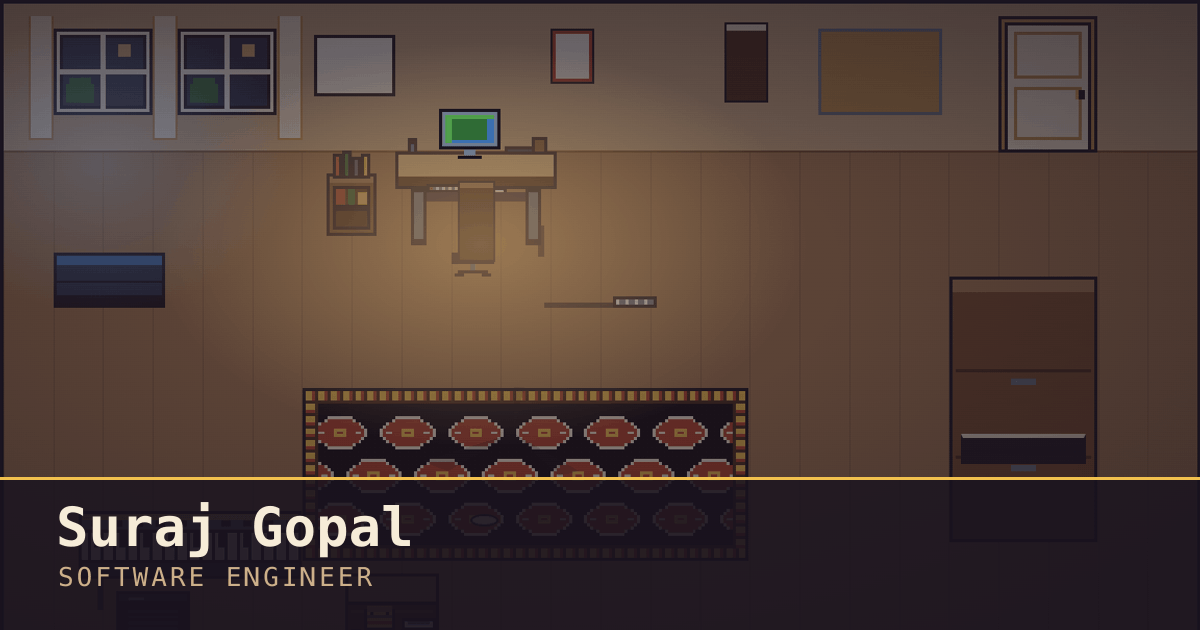
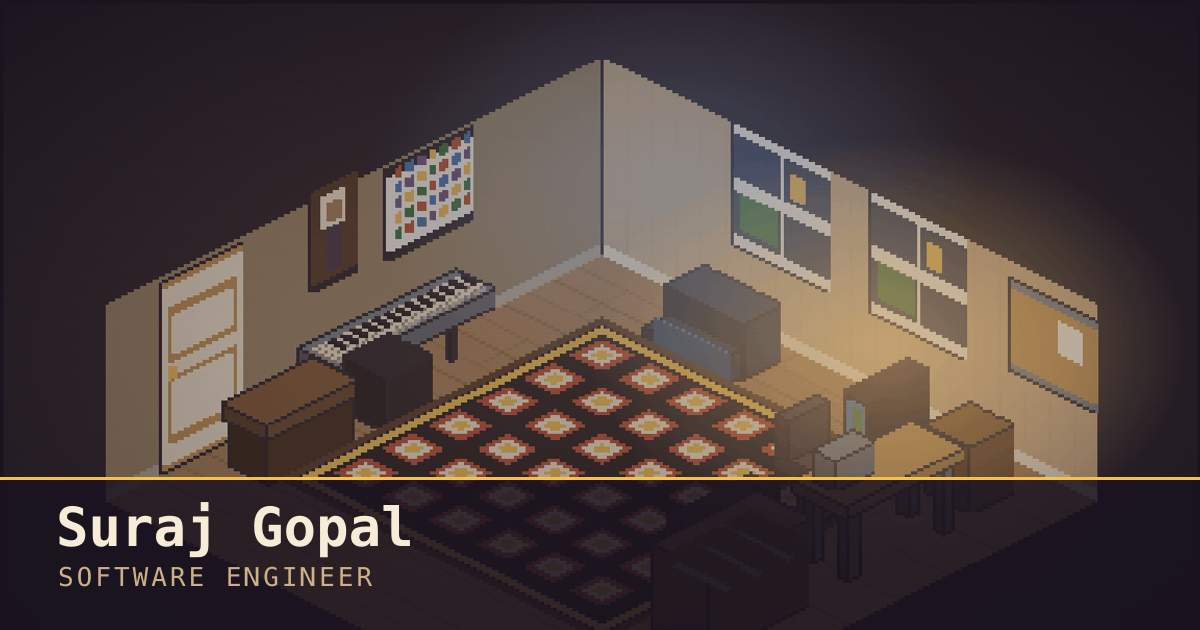
Finish phase two: new social card, and a character spec that fits
The social card is regenerated from the isometric room — it had been
advertising a room that no longer exists.

docs/characters.md was actively wrong after the camera change, so it's
rewritten around the new projection. Scale is 8 pixels to the foot, from
the 64px wall: a person is 44-48px, Peanut 18px at the shoulder, Kibou
11px, with footprints in tiles.

The useful part is the frame count. Isometric has four facings, but
down-left is down-right mirrored and up-left is up-right mirrored, so
only two are drawn and the renderer flips the others with scaleX(-1),
which is lossless on a whole-pixel sprite. That's ten frames per
character rather than twenty.

The shot list changed with it: two three-quarter views matching the
room's camera, 45 degrees in front and above and 45 behind and above —
not the front/back/side the top-down camera wanted.

README updated for the new architecture and the six commands that didn't
exist when it was written.

diff --git a/docs/characters.md b/docs/characters.md
@@ -1,7 +1,11 @@
 # Character reference
 
 Three characters wander through the office: **Kibou** (cat), **Peanut** (dog)
-and **Caitlin**. Suraj is the fourth, at the desk.
+and **Caitlin**. Suraj is the fourth, at the desk, and doesn't move.
+
+Positions are tiles on the isometric floor — the same coordinates the
+furniture uses. See `lib/characters.ts` for each visitor's spot and beat,
+and `npm test` for the contract the state machine has to satisfy.
 
 Colors below were sampled off the reference photos in `photos/raw/` and then
 snapped to the nearest palette entry, so what you draw in Aseprite matches what
@@ -9,18 +13,51 @@ the room is already made of. Palette: `scripts/palette.json`.
 
 ## Scale
 
-The scene is 384×216 art px — 24×13.5 tiles at 16px. Everything should sit on
-that grid:
+The room is isometric now (see `docs/art-direction.md` and
+`components/scene/iso.ts`), which changes every number below.
 
-| | height | length |
+Height is measured in pixels, and the wall is 64px for an 8-foot room — so
+**8 pixels to the foot**. A floor tile is 32x16px and about 1.2 feet square.
+
+| | height | footprint |
 |---|---|---|
-| Standing person | 56–64 px (≈4 tiles) | — |
-| Peanut | 28 px at the shoulder | ~44 px nose to rump, + 20 px tail |
-| Kibou | 22 px at the shoulder | ~34 px, + a tail nearly as long again |
+| A person | 44–48 px | 0.5 x 0.5 tiles |
+| Peanut | 18 px at the shoulder | 0.5 x 0.8 tiles |
+| Kibou | 11 px at the shoulder | 0.4 x 0.7 tiles |
 
-At these sizes, detail is not what makes someone recognizable — silhouette and
-two or three color blocks are. Draw the silhouette first, in one flat color,
-and only shade it once it already reads from across the room.
+Check them against the furniture: the desk is 26px (3¼ ft), the chair 32px,
+the credenza 28px. A person at 46px stands head and shoulders above the desk,
+which is what you want.
+
+## Frames: draw two directions, mirror for the other two
+
+In isometric a character faces four ways, named for where they travel on
+screen: `down-right`, `down-left`, `up-right`, `up-left`. But **down-left is
+down-right mirrored, and up-left is up-right mirrored** — so you only draw
+two and flip them.
+
+| view | drawn | used for |
+|---|---|---|
+| down-right | yes | walking toward the camera |
+| up-right | yes | walking away, toward the desk or the windows |
+| down-left | mirror of down-right | — |
+| up-left | mirror of up-right | — |
+
+Per character:
+
+- **4-frame walk cycle** in each of the two drawn directions — 8 frames.
+- **2-frame idle** in down-right, for the `settled` beat — breathing, a tail
+  flick, an ear twitch.
+
+**Ten frames per character, not the twenty the four directions suggest.**
+Export one horizontal strip per direction into
+`public/art/characters/<name>-<down|up>-right.png`, frames evenly spaced,
+transparent background. The renderer flips with `transform: scaleX(-1)`,
+which is lossless on a whole-pixel sprite.
+
+Mirroring does mean asymmetric markings swap sides — Kibou's face blaze, a
+collar, a logo on a shirt. At this size nobody notices, and it halves the
+work.
 
 ## Kibou
 
@@ -83,23 +120,12 @@ Long dark-brown hair falling past the shoulders with a soft wave, parted off
 one side. Lighter skin: ramp `#7a4e2e` → `#a67c55` → `#cdb08a` → `#e8c48a`,
 highlight `#f6ecd8`.
 
-## Frames each character needs
+## The beats
 
 Matching the phases in `lib/characters.ts`:
 
-The room is drawn from a shallow top-down three-quarter angle (see
-`components/scene/room.ts`), so characters cross the floor in depth as well as
-left-to-right. That means three views, not one:
-
-| view | used for | frames |
-|---|---|---|
-| front (¾, facing you) | walking toward the camera, and the `paused` idle | 4 walk + 2 idle |
-| back | walking away, toward the desk or the door | 4 walk |
-| side | crossing the room; mirror it for the other direction | 4 walk |
-
-Fourteen frames per character. Export as one horizontal strip per view into
-`public/art/characters/<name>-<view>.png`, frames evenly spaced, transparent
-background.
+Each visitor enters through the door on the west wall, crosses to their spot,
+does their beat, and leaves. One at a time, with quiet stretches between.
 
 ## Reference photos: what worked
 
@@ -119,14 +145,18 @@ quantization either.
 
 ## Still needed
 
-Three angles of each character — front, back, side. The earlier version of
-this list asked for a profile only; that was written for a flat side-on scene,
-and the top-down camera replaced it.
+**Two three-quarter views of each character**, matching the room's camera:
+one from roughly 45 degrees in front and above, one from 45 degrees behind
+and above. Not front/back/side — that list was written for the top-down
+camera and the isometric one replaced it.
 
-- [ ] Kibou: front, back, side. Standing, plus one sitting for the idle.
-- [ ] Peanut: front, back, side. Standing, plus one sitting.
-- [ ] Caitlin: front and side, standing. (She's in — asked and said yes.)
-- [ ] Suraj: front and side, standing, plus seated at the desk.
+The camera height matters more than the angle: shoot from above the subject,
+looking down at roughly the angle the room is drawn at. For Kibou that means
+standing over him; for Peanut, crouching slightly above.
 
-Same camera height each time, so the three views of one character agree with
-each other.
+- [ ] Kibou: three-quarter front and three-quarter back. Standing, plus one
+      sitting for the idle.
+- [ ] Peanut: the same two, standing, plus one lying down.
+- [ ] Caitlin: the same two, standing. (She's in — asked and said yes.)
+- [ ] Suraj: the same two, plus seated at the desk from behind-right, which
+      is how the scene sees him.

diff --git a/README.md b/README.md
@@ -15,6 +15,12 @@ every pixel here is drawn from scratch. No Nintendo sprites, no Nintendo music.
 | `npm run build` | static export to `out/` |
 | `npm run preview` | build, then serve `out/` — the actual static files CloudFront will serve |
 | `npm run lint` | typecheck |
+| `npm run iso-sprites` | draw the room's sprites in code |
+| `npm run iso -- out.png` | render the room's geometry, flag anything outside the frame |
+| `npm run shot` | screenshot any route, any width, either landing version |
+| `npm run audit` | keyboard path, focus rings, reduced motion, phone width |
+| `npm run og` | regenerate the social card from the live scene |
+| `npm test` | the character state machine's specification |
 | `npm run pixelate -- <photo> [options]` | photo → pixel-art base |
 | `npm run deploy` | build, upload to S3, invalidate CloudFront |
 
@@ -35,18 +41,20 @@ static fallback both render from it, so the two can't drift apart.
 
 ## The camera
 
-The room is drawn from a shallow top-down three-quarter angle — the Cult of
-the Lamb camera. You look down at the floor; everything on it stands upright,
-facing you. The projection is orthographic: no vanishing point, no scaling
-with depth, because perspective scaling puts sprites on fractional pixels.
+You stand in the doorway and look down across the room on the diagonal —
+windows ahead, desk right, piano corner left. `photos/raw/office/IMG_0730` is
+that exact view, and the projection is built to match it.
 
-This is the camera SMB3's own overworld map uses, so the landing scene and the
-projects map speak one visual language. The drawing style stays SMB3
-throughout: flat fills, one shadow step, a hard dark outline, no gradients.
+2:1 dimetric, not true 30-degree isometric. 2:1 keeps every edge on whole
+pixels — two across for one down — where true isometric puts diagonals on
+irrational slopes and they come out furry at this size.
 
-It also solves a problem the first version had: the desk, the piano and the
-door are on three different walls of the real office, and no single eye-level
-photo contains all three. Seen from above, they all fit in one frame.
+Everything is orthographic: no vanishing point, nothing scales with depth.
+Painter's order is the sum of a thing's grid coordinates, which is correct no
+matter how tall anything is.
+
+Stardew Valley sets the density and texture; the drawing rules are in
+`docs/art-direction.md`.
 
 ## Two landing experiences, on purpose
 
@@ -70,9 +78,9 @@ app/                     routes (static export, trailing slashes)
   projects/              overworld map + [slug] case studies
   now/                   the cork board — what I'm studying
 components/scene/        the room
-  room.ts                the floor plan: projection, and every thing in the
-                         room with its position and depth
-  Scene.tsx              depth-sorted renderer, desk animation, hotspots
+  iso.ts                 the projection, and every thing in the room with
+                         its footprint in tiles and its height in pixels
+  IsoScene.tsx           painter-ordered renderer, desk animation, hotspots
 content/site.ts          all non-project copy + the nav map
 content/projects.ts      the project list and case-study text
 content/studying.ts      what's pinned to the cork board
@@ -104,8 +112,13 @@ public/art/              exported pixel art
    reads as a quantized photo until the silhouettes are redrawn — that part is
    not automatable.
 4. Export one transparent PNG per layer at 384×216 into `public/art/office/`.
-5. Set its `src` in `components/scene/room.ts`. The CSS placeholder for that
-   thing disappears on its own.
+5. Set its `src` in `components/scene/iso.ts`.
+
+The room's own props aren't traced from photos at all — they're drawn in code
+by `scripts/iso-sprites.mjs`, because in isometric nearly every prop is a box
+with three shaded faces and one primitive draws most of them. The photos are
+reference for layout, contents and colour. The characters are the exception:
+they're hand-drawn, and `docs/characters.md` says at what size.
 
 The scene is 384×216 art pixels. Every color must come from
 `scripts/palette.json` — 21 colors in four groups (`room`, `outside`, `fur`,

diff --git a/photos/README.md b/photos/README.md
@@ -33,11 +33,12 @@ a cropped paw.
 - [x] The cat — `kibou/`. Good color reference, no usable sprite pose.
 - [x] The dog — `peanut/`. `IMG_0165` is the one that pixelates cleanly.
 - [x] Caitlin and Suraj — `wife_and_i/`. Faces and coloring, all ¾ or head-on.
-- [ ] **Front, back and side of all four.** The scene is drawn from a shallow
-      top-down angle, so characters walk toward and away from the camera as
-      well as across it. One side only — the other direction is mirrored.
+- [ ] **Two three-quarter views of all four**, matching the room's isometric
+      camera: 45 degrees in front and above, and 45 degrees behind and above.
+      Only two, because the other two directions are these mirrored. See
+      `docs/characters.md`.
 - [ ] **The pause pose** — sitting for the pets, standing relaxed for people,
-      shot front-on.
+      from the three-quarter front.
 - [x] Caitlin's okay on being drawn in — yes.
 
 ---
